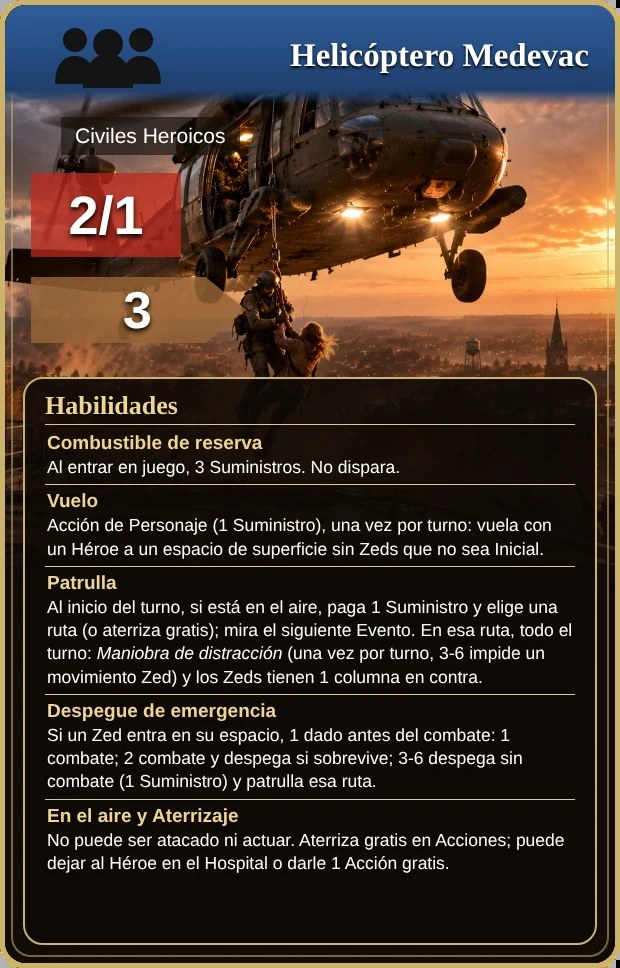
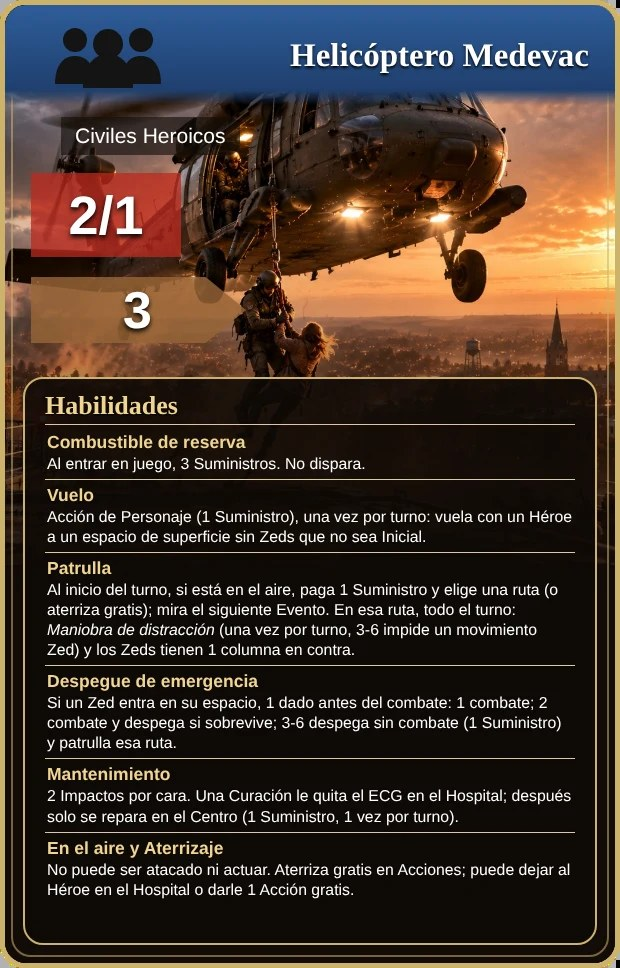
Helicóptero Medevac: mantenimiento (2 Impactos por cara, reparación como Bender)
Las unidades médicas no pueden repararlo; con ECG se cura en el Hospital y sin
ECG solo en el Centro pagando 1 Suministro (1 vez por turno). Carta regenerada.

Claude-Session: https://claude.ai/code/session_01KmRiLZMftQUUyzar8LGUez

Changed region(s): [[0.0613, 0.4339, 0.9194, 0.9298]]

diff --git a/js/expansions.js b/js/expansions.js
@@ -31,7 +31,7 @@ Object.assign(HEROES, {
   sar: { name: 'Búsqueda y Rescate (SAR)', type: 'civh', cls: 'Civiles Heroicos', full: 3, red: 2, mp: 3, img: 'sar', card: 'h_sar', lv: 2, exp: 4, hf: 2, hr: 2,
     txt: ['<b>Despejar:</b> Acción de Personaje (1 Acción), una vez por turno, aunque haya Caos en su espacio: en el Mantenimiento quita 2 fichas de Caos de ese espacio sin subir la Infección.', '<b>Escudo humano:</b> 1 columna a favor en combates Cuerpo a Cuerpo y al disparar mientras haya Refugiados o Aldeanos en su espacio.'] },
   heli: { name: 'Helicóptero Medevac', type: 'civh', cls: 'Civiles Heroicos', full: 2, red: 1, mp: 3, img: 'heli', card: 'h_heli', lv: 2, exp: 4, hf: 2, hr: 2, nofire: 1,
-    txt: ['<b>Combustible de reserva:</b> al entrar en juego obtienes 3 Suministros.', '<b>Vuelo:</b> Acción de Personaje (1 Suministro), una vez por turno: el helicóptero y un Héroe de su espacio vuelan a cualquier espacio de superficie sin Zeds que no sea Inicial. No pueden llevar a Pepinillos, Horacio, el General Lee ni Carter.', '<b>Patrulla:</b> al inicio de cada turno, tras revelar el Evento, si está en el aire paga 1 Suministro y elige una ruta para patrullar, o aterriza gratis. Mira la siguiente carta de Evento. En esa ruta, todo el turno: <b>Maniobra de distracción</b> (reacción, una vez por turno: antes de que una unidad o Horda Zed se mueva, tira 1 dado; con 3-6 no se mueve, y si falla no puede reintentarlo) y los Zeds tienen 1 columna en contra en todos los combates.', '<b>Despegue de emergencia:</b> cuando una unidad Zed entra en su espacio, tira 1 dado antes del combate: 1 combate normal y no despega; 2 combate normal y, si sigue vivo, despega; 3-6 despega sin combate. Al despegar paga 1 Suministro, puede llevarse al Héroe de su espacio y patrulla esa ruta el resto del turno.', '<b>En el aire:</b> ni el helicóptero ni su Héroe pueden ser atacados ni realizar Acciones.', '<b>Aterrizaje:</b> gratis en cualquier momento de la fase de Acciones, en un espacio de superficie sin Zeds que no sea Inicial. Puede dejar al Héroe en una Cama libre del Hospital (sin ECG ni Infección); si aterriza en un espacio, el Héroe recibe 1 Acción gratis.', '<b>No dispara.</b>'] },
+    txt: ['<b>Combustible de reserva:</b> al entrar en juego obtienes 3 Suministros.', '<b>Vuelo:</b> Acción de Personaje (1 Suministro), una vez por turno: el helicóptero y un Héroe de su espacio vuelan a cualquier espacio de superficie sin Zeds que no sea Inicial. No pueden llevar a Pepinillos, Horacio, el General Lee ni Carter.', '<b>Patrulla:</b> al inicio de cada turno, tras revelar el Evento, si está en el aire paga 1 Suministro y elige una ruta para patrullar, o aterriza gratis. Mira la siguiente carta de Evento. En esa ruta, todo el turno: <b>Maniobra de distracción</b> (reacción, una vez por turno: antes de que una unidad o Horda Zed se mueva, tira 1 dado; con 3-6 no se mueve, y si falla no puede reintentarlo) y los Zeds tienen 1 columna en contra en todos los combates.', '<b>Despegue de emergencia:</b> cuando una unidad Zed entra en su espacio, tira 1 dado antes del combate: 1 combate normal y no despega; 2 combate normal y, si sigue vivo, despega; 3-6 despega sin combate. Al despegar paga 1 Suministro, puede llevarse al Héroe de su espacio y patrulla esa ruta el resto del turno.', '<b>En el aire:</b> ni el helicóptero ni su Héroe pueden ser atacados ni realizar Acciones.', '<b>Aterrizaje:</b> gratis en cualquier momento de la fase de Acciones, en un espacio de superficie sin Zeds que no sea Inicial. Puede dejar al Héroe en una Cama libre del Hospital (sin ECG ni Infección); si aterriza en un espacio, el Héroe recibe 1 Acción gratis.', '<b>Mantenimiento:</b> recibe 2 Impactos por cara. Las unidades médicas no pueden repararlo de forma habitual: si cae al Hospital, una Curación le retira el ECG; después solo se repara en el Centro, pagando 1 Suministro, una vez por turno.', '<b>No dispara.</b>'] },
   caza: { name: 'Club de Caza de Farmingdale', type: 'civh', cls: 'Civiles Heroicos', full: 3, red: 2, mp: 3, img: 'caza', card: 'h_caza', lv: 2, exp: 4, hf: 2, hr: 2,
     txt: ['<b>Puesto de caza:</b> disparan a 2 espacios sin penalización de columna.', '<b>Trofeo:</b> cuando su disparo elimina a una unidad Zed, recuperan 1 Munición.', '<b>Presa marcada:</b> Acción de Personaje (1 Acción), una vez por turno: marcan una unidad Zed a su alcance. Los disparos de cualquier unidad de jugador contra ella tienen 1 columna a favor hasta que sea eliminada o termine el turno.', '<b>A campo abierto:</b> tienen 1 columna en contra en combates Cuerpo a Cuerpo.'] }
 });

diff --git a/js/actions.js b/js/actions.js
@@ -153,8 +153,8 @@ function canBuild(u) {
 /* Toda Acción de Curar baja la Infección 1 (2 si Agee está en el Hospital) y solo puede hacerse 1 vez por unidad y turno. */
 function cureInf() { const agee = alive('agee'); infDown(agee && agee.space && sp(agee.space).kind === 'office' ? 2 : 1); }
 /* El camión de Carter solo se repara con su propia habilidad: ninguna otra Curación puede usarse en él (salvo quitarle el ECG en el Hospital). */
-/* Bender (Reparación Alcohólica): con ECG solo se cura en el Hospital; sin ECG, solo en el Centro (acción propia, 1 Suministro). */
-const curable = x => injured(x) && x.curedTurn !== G.turnNo && !(x.key === 'carter' && !(x.space && G.spaces[x.space] && sp(x.space).kind === 'bed')) && !(x.key === 'bender' && !x.ecg && x.space !== 'C');
+/* Bender (Reparación Alcohólica) y el Helicóptero Medevac: con ECG solo se curan en el Hospital; sin ECG, solo en el Centro (acción propia, 1 Suministro). */
+const curable = x => injured(x) && x.curedTurn !== G.turnNo && !(x.key === 'carter' && !(x.space && G.spaces[x.space] && sp(x.space).kind === 'bed')) && !(x.key === 'bender' && !x.ecg && x.space !== 'C') && !(x.key === 'heli' && !x.ecg && x.space !== 'C');
 async function doCure(u, free, noInf) {
   if (!free) spendActions(u, 1);
   healUnit(u); u.curedTurn = G.turnNo; if (!noInf) cureInf();
@@ -187,6 +187,7 @@ function unitActions(u) {
   /* Visiones de Wilson: en cualquier momento, sin gastar Acción. */
   if (u.key === 'wilson' && u.space) A.push({ id: 'visions', label: '🔮 Visiones: mirar la carta superior de Destino', ok: true });
   if (u.key === 'bender' && u.space === 'C' && !u.ecg) A.push({ id: 'bcure', label: 'Reparar en el Centro (1 Sum., 1 vez por turno)', ok: curable(u) && G.supplies >= 1 });
+  if (u.key === 'heli' && u.space === 'C' && !u.ecg) A.push({ id: 'bcure', label: 'Reparar en el Centro (1 Sum., 1 vez por turno)', ok: curable(u) && G.supplies >= 1 });
   /* Helicóptero Medevac (exp. 4): en el aire solo puede aterrizar; en tierra, volar. */
   if (u.key === 'heli' && u.space === 'AIR') A.push({ id: 'aterrizar', label: 'Aterrizar (gratis)', ok: true });
   /* El SAR es la excepción a «con Caos no se actúa»: su Acción de Personaje es justo para quitarlo. */

diff --git a/sw.js b/sw.js
@@ -1,7 +1,7 @@
 /* Service worker: permite instalar la web como app y jugar sin conexión.
    Código (html/js/css): red primero, con copia local de reserva. Imágenes y audio: caché primero. */
 'use strict';
-const CACHE = 'doz3-v47';
+const CACHE = 'doz3-v48';
 const SHELL = ['./', 'index.html', 'style.css', 'manifest.webmanifest', 'icons/icon-192.png', 'icons/icon-512.png', 'assets/portada.jpg', 'assets/fondo_nueva.webp', 'assets/fondo_ranking.webp',
   'js/version.js', 'js/data.js', 'js/events.js', 'js/dest.js', 'js/evlog.js', 'js/preview.js', 'js/obituario.js', 'js/engine.js', 'js/game.js', 'js/phases.js', 'js/actions.js', 'js/cardtext.js', 'js/ui.js', 'js/anim.js',
   'js/expansions.js', 'js/expansions2.js', 'js/sfx.js', 'js/sound.js', 'js/opciones.js', 'js/voz.js', 'js/ost.js', 'assets/sonidos/letras/letras.js', 'assets/sonidos/efectos/sfx_disparo.mp3', 'assets/sonidos/efectos/sfx_disparo_largo.mp3', 'js/mapzoom.js', 'js/seedcode.js', 'js/save.js', 'js/main.js', 'js/bot.js'];

diff --git a/js/version.js b/js/version.js
@@ -1,2 +1,2 @@
 /* Fecha y hora de la última build (hora de Madrid). Se actualiza con cada cambio publicado. */
-const BUILD_TIME = '2026-10-31 14:20';
+const BUILD_TIME = '2026-10-31 15:00';

diff --git a/CHANGELOG.md b/CHANGELOG.md
@@ -2,6 +2,11 @@
 
 Registro de cambios por publicación (push a `main`). Lo más reciente, arriba. Cada entrada lleva la misma fecha y hora que `BUILD_TIME` de `js/version.js`.
 
+## 2026-10-31 15:00
+
+### Cambios
+- **Helicóptero Medevac, mantenimiento:** recibe 2 Impactos por cara y se repara como Bender: las unidades médicas no pueden curarlo de forma habitual; si cae al Hospital, una Curación le retira el ECG, y después solo se repara en el Centro, pagando 1 Suministro, una vez por turno. La carta se ha regenerado con esta habilidad.
+
 ## 2026-10-31 14:20
 
 ### Cambios
